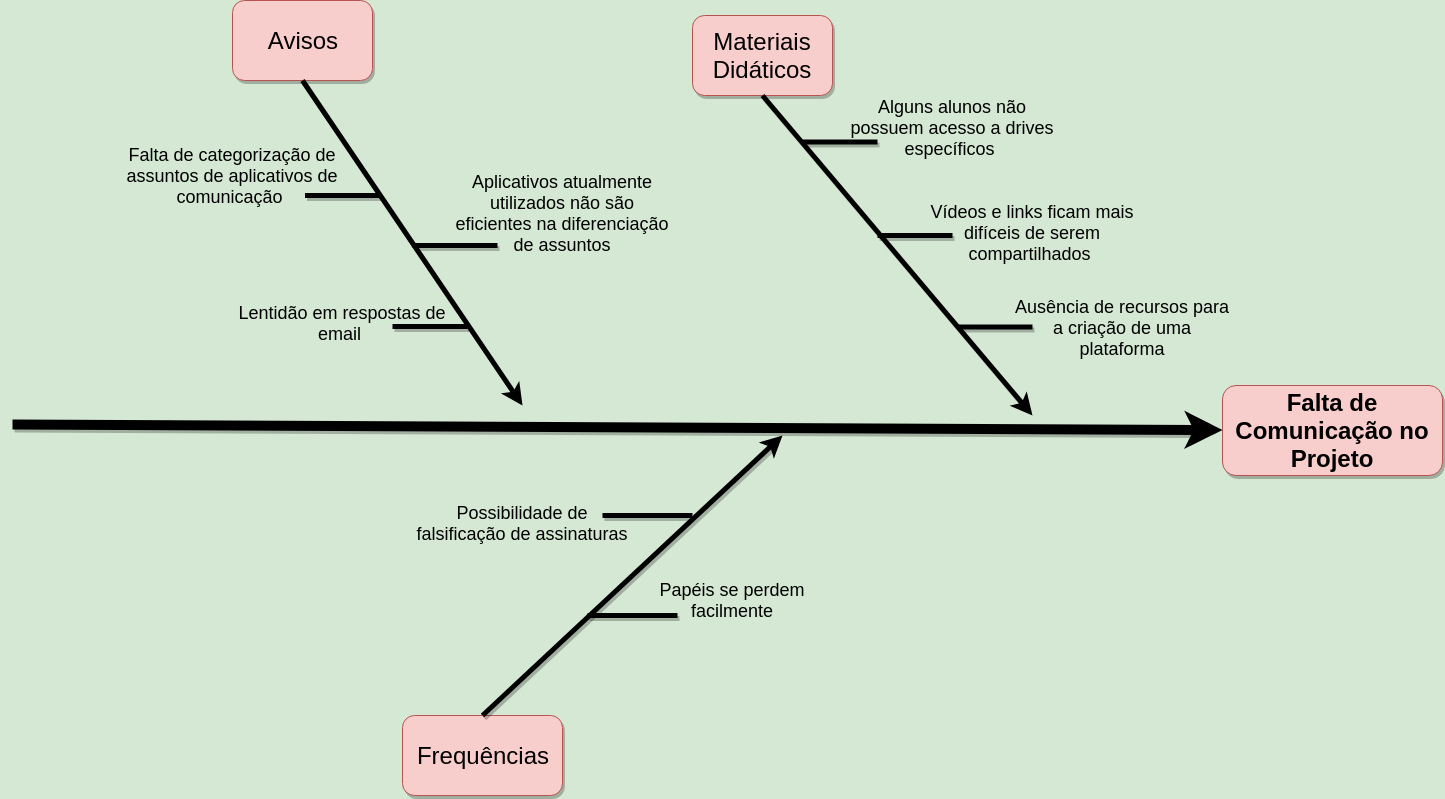
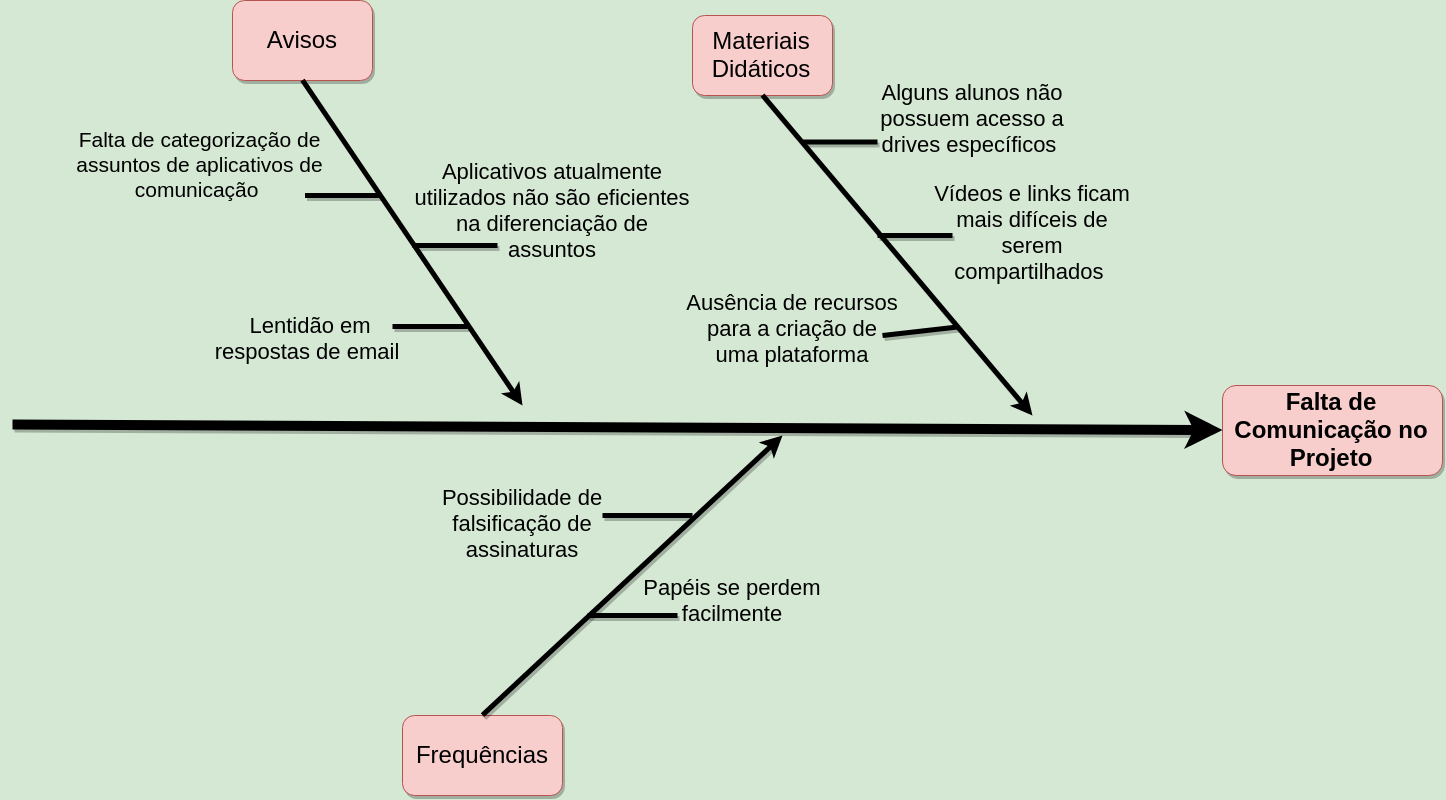
Adicionando descrição do diagrama e algumas modificações na imagem

diff --git a/docs/requisitos/ishikawa.md b/docs/requisitos/ishikawa.md
@@ -1,3 +1,21 @@
 # Diagrama de Ishikawa
 
+### Histórico de Revisões
+
+| Data | Versão | Descrição | Autor(es) |
+|:----:|:------:|:---------:|:-----:|
+|22/03/2018|1.0|Elaboração do Diagrama| Bruna e Letícia |
+|28/03/2018|1.2|Explicação sobre o diagrama e acréscimo do histórico de revisão|Letícia|
+
+> "Um diagrama de Ishikawa, também conhecido como diagrama de causa e efeito ou diagrama de espinha de peixe, é frequentemente usado no gerenciamento de qualidade em indústrias de manufatura". (WONG, Kam Cheong, 2011).
+
+A elaboração do diagrama a seguir visou auxiliar na gerência e Controle da Qualidade do produto, identificando causas para um efeito problema, no caso do Projeto Cascata, a falta de comunicação no projeto.
+
 ![Controle de Qualidade](../img/Ishikawa/DiagramaIshikawaBruna_e_Leticia.png)
+
+<br>
+## **Referências:**
+
+1. WONG, Kam Cheong. Using an Ishikawa diagram as a tool to assist memory and retrieval of relevant medical cases from the medical literature. 2011.
+
+2. Ávila, Rafael. Diagrama de Ishikawa: oque é e como fazer. Disponível em: <https://blog.luz.vc/o-que-e/diagrama-de-ishikawa/> . Acesso em: 22 de março de 2018.
